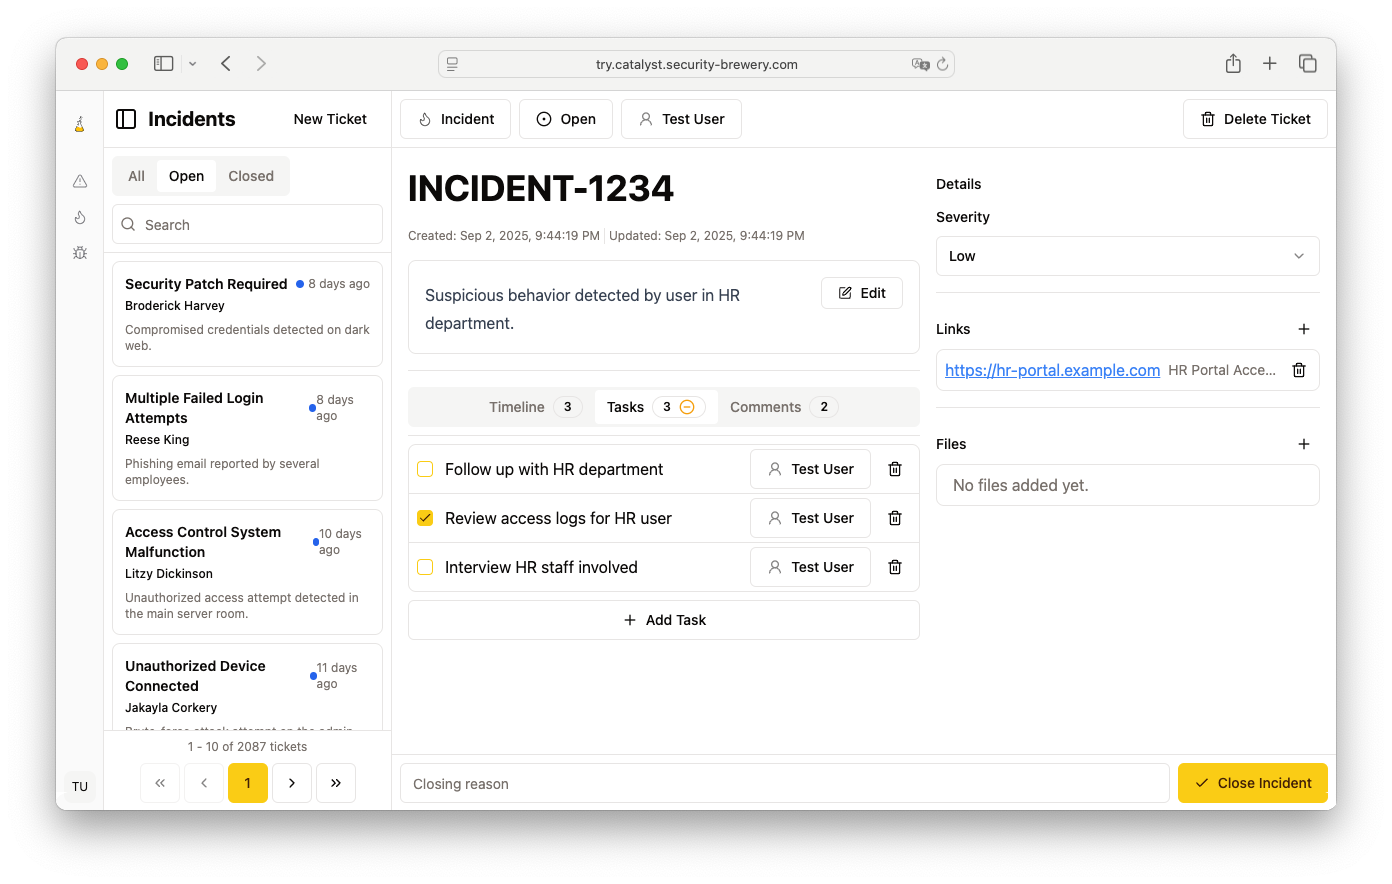
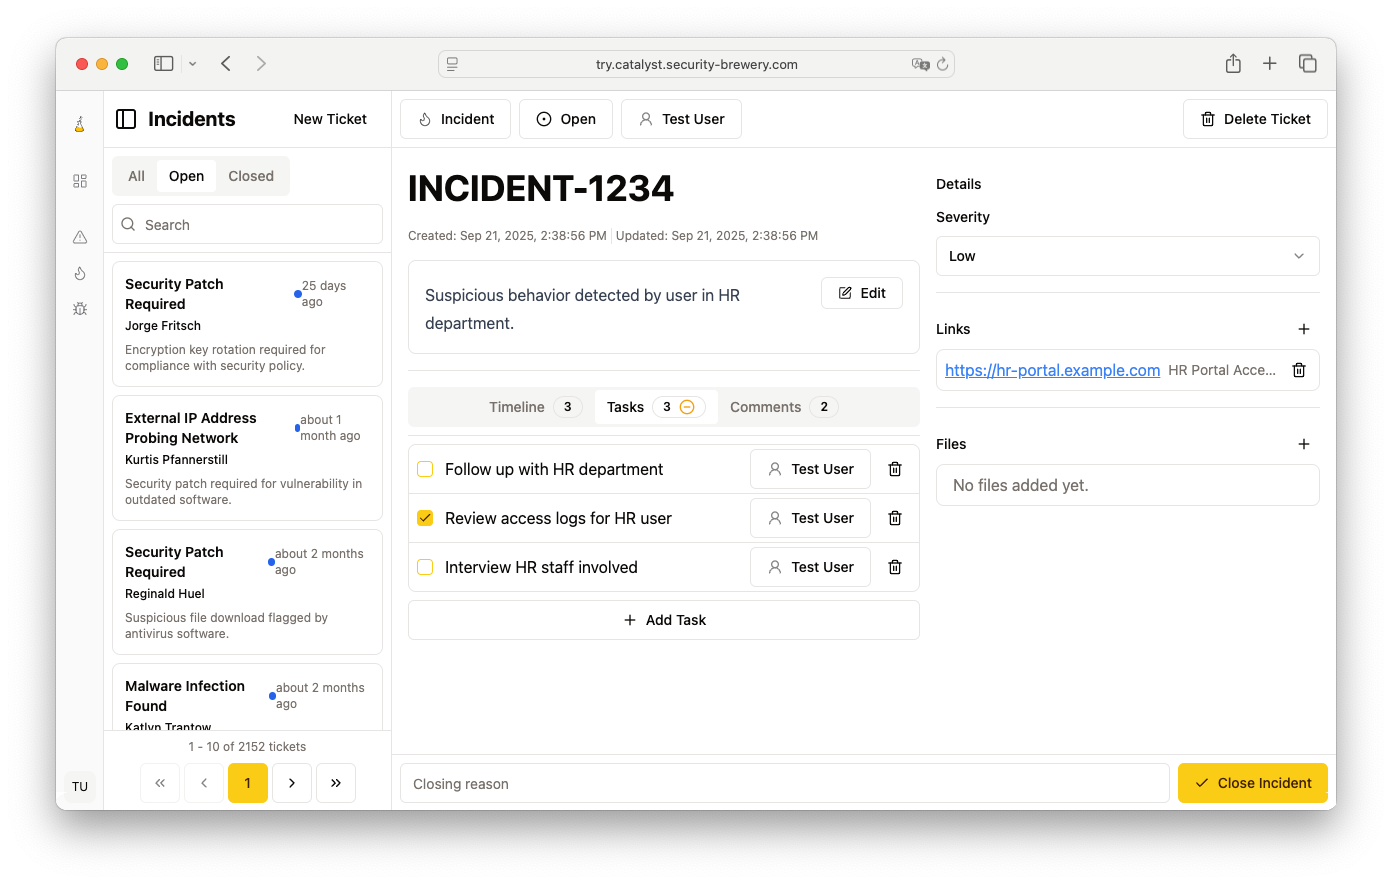
chore: add more screenshotr

diff --git a/ui/screenshots/docs-screenshots.spec.ts b/ui/screenshots/docs-screenshots.spec.ts
@@ -49,3 +49,42 @@ test('reactions screenshot', async ({ page }) => {
   await page.waitForTimeout(7000)
   await page.screenshot({ path: screenshot('reactions') })
 })
+
+test('settings screenshot', async ({ page }) => {
+  await login(page, true)
+  await page.goto('settings')
+  await expect(page.getByRole('heading', { name: 'Settings' })).toBeVisible()
+  await page.getByText("Toggle Sidebar").click()
+  await page.waitForTimeout(7000)
+  await page.screenshot({ path: screenshot('settings') })
+})
+
+test('users screenshot', async ({ page }) => {
+  await login(page, true)
+  await page.goto('users')
+  await expect(page.getByRole('heading', { name: 'Users' })).toBeVisible()
+  await page.getByText("Toggle Sidebar").click()
+  await page.getByText("Test User").click()
+  await page.waitForTimeout(7000)
+  await page.screenshot({ path: screenshot('users') })
+})
+
+test('groups screenshot', async ({ page }) => {
+  await login(page, true)
+  await page.goto('groups')
+  await expect(page.getByRole('heading', { name: 'Groups' })).toBeVisible()
+  await page.getByText("Toggle Sidebar").click()
+  await page.getByText("Analyst").click()
+  await page.waitForTimeout(7000)
+  await page.screenshot({ path: screenshot('groups') })
+})
+
+test('types screenshot', async ({ page }) => {
+  await login(page, true)
+  await page.goto('types')
+  await expect(page.getByRole('heading', { name: 'Types' })).toBeVisible()
+  await page.getByText("Toggle Sidebar").click()
+  await page.locator('main').getByText("Incident").click()
+  await page.waitForTimeout(7000)
+  await page.screenshot({ path: screenshot('types') })
+})

diff --git a/ui/src/components/layout/SideBar.vue b/ui/src/components/layout/SideBar.vue
@@ -122,8 +122,6 @@ const initials = (user: { name?: string } | undefined) => {
             </SidebarMenuItem>
           </SidebarMenu>
         </SidebarGroup>
-      </SidebarContent>
-      <SidebarContent>
         <SidebarGroup>
           <SidebarGroupLabel>Tickets</SidebarGroupLabel>
           <SidebarMenu>
